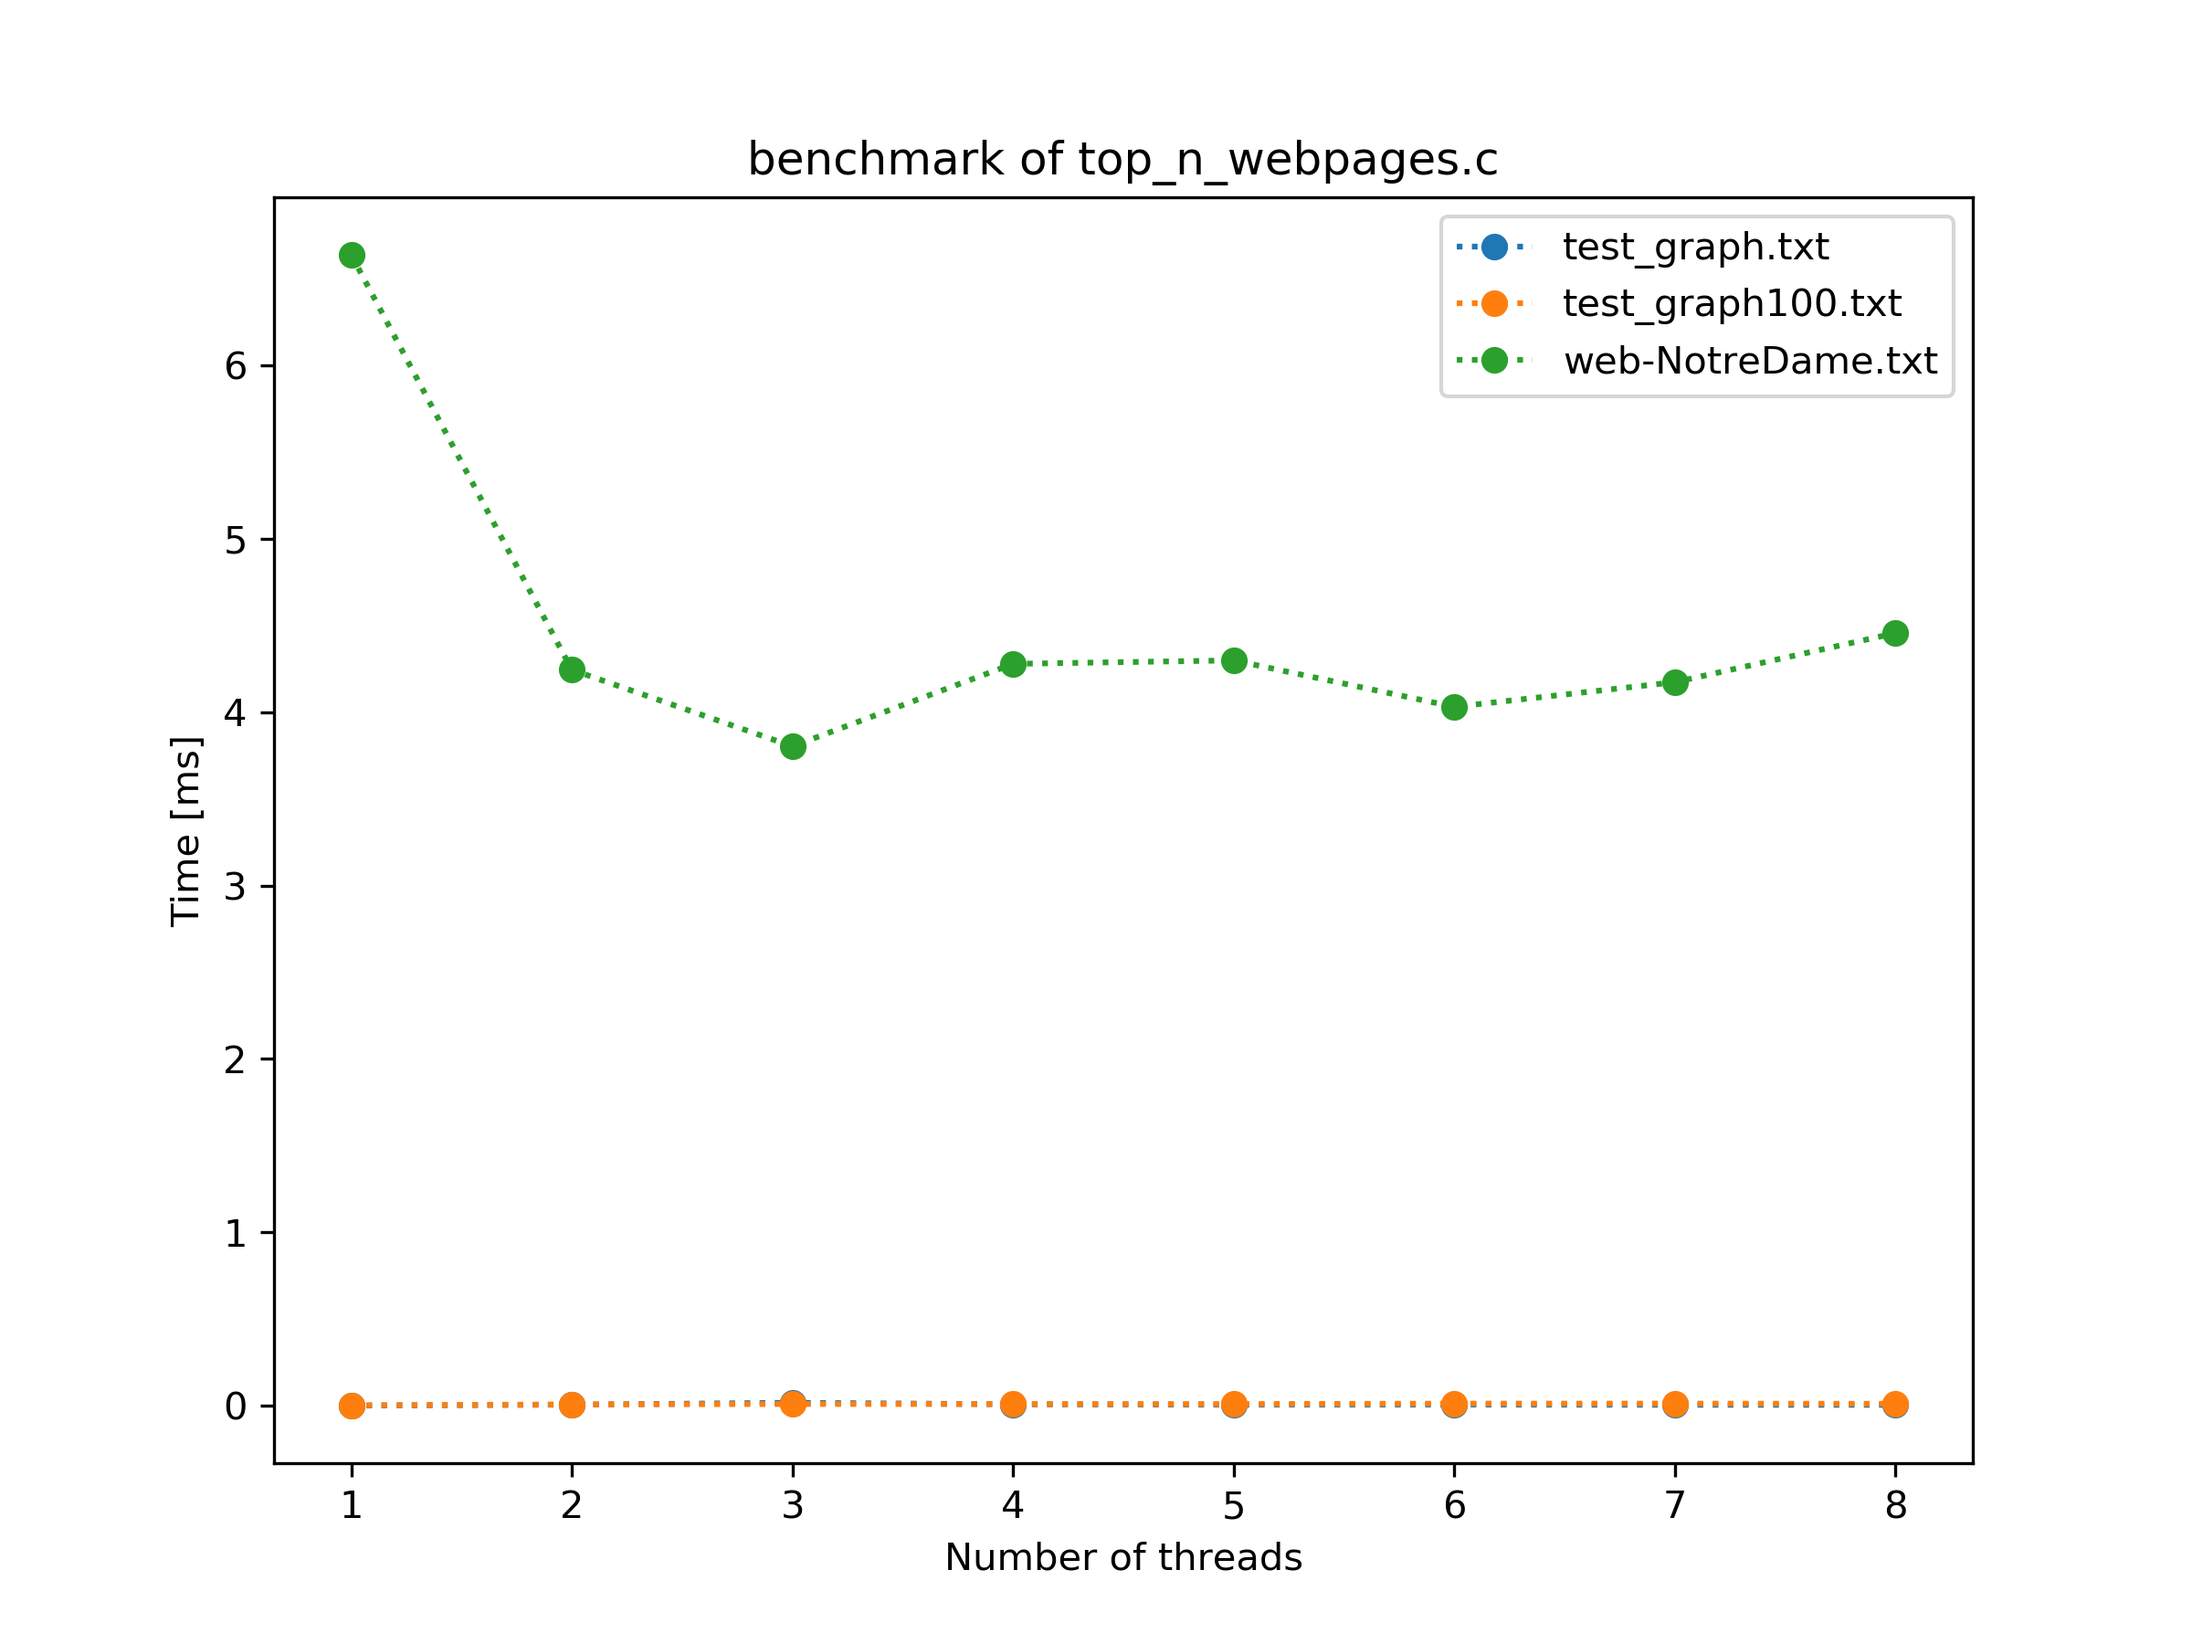
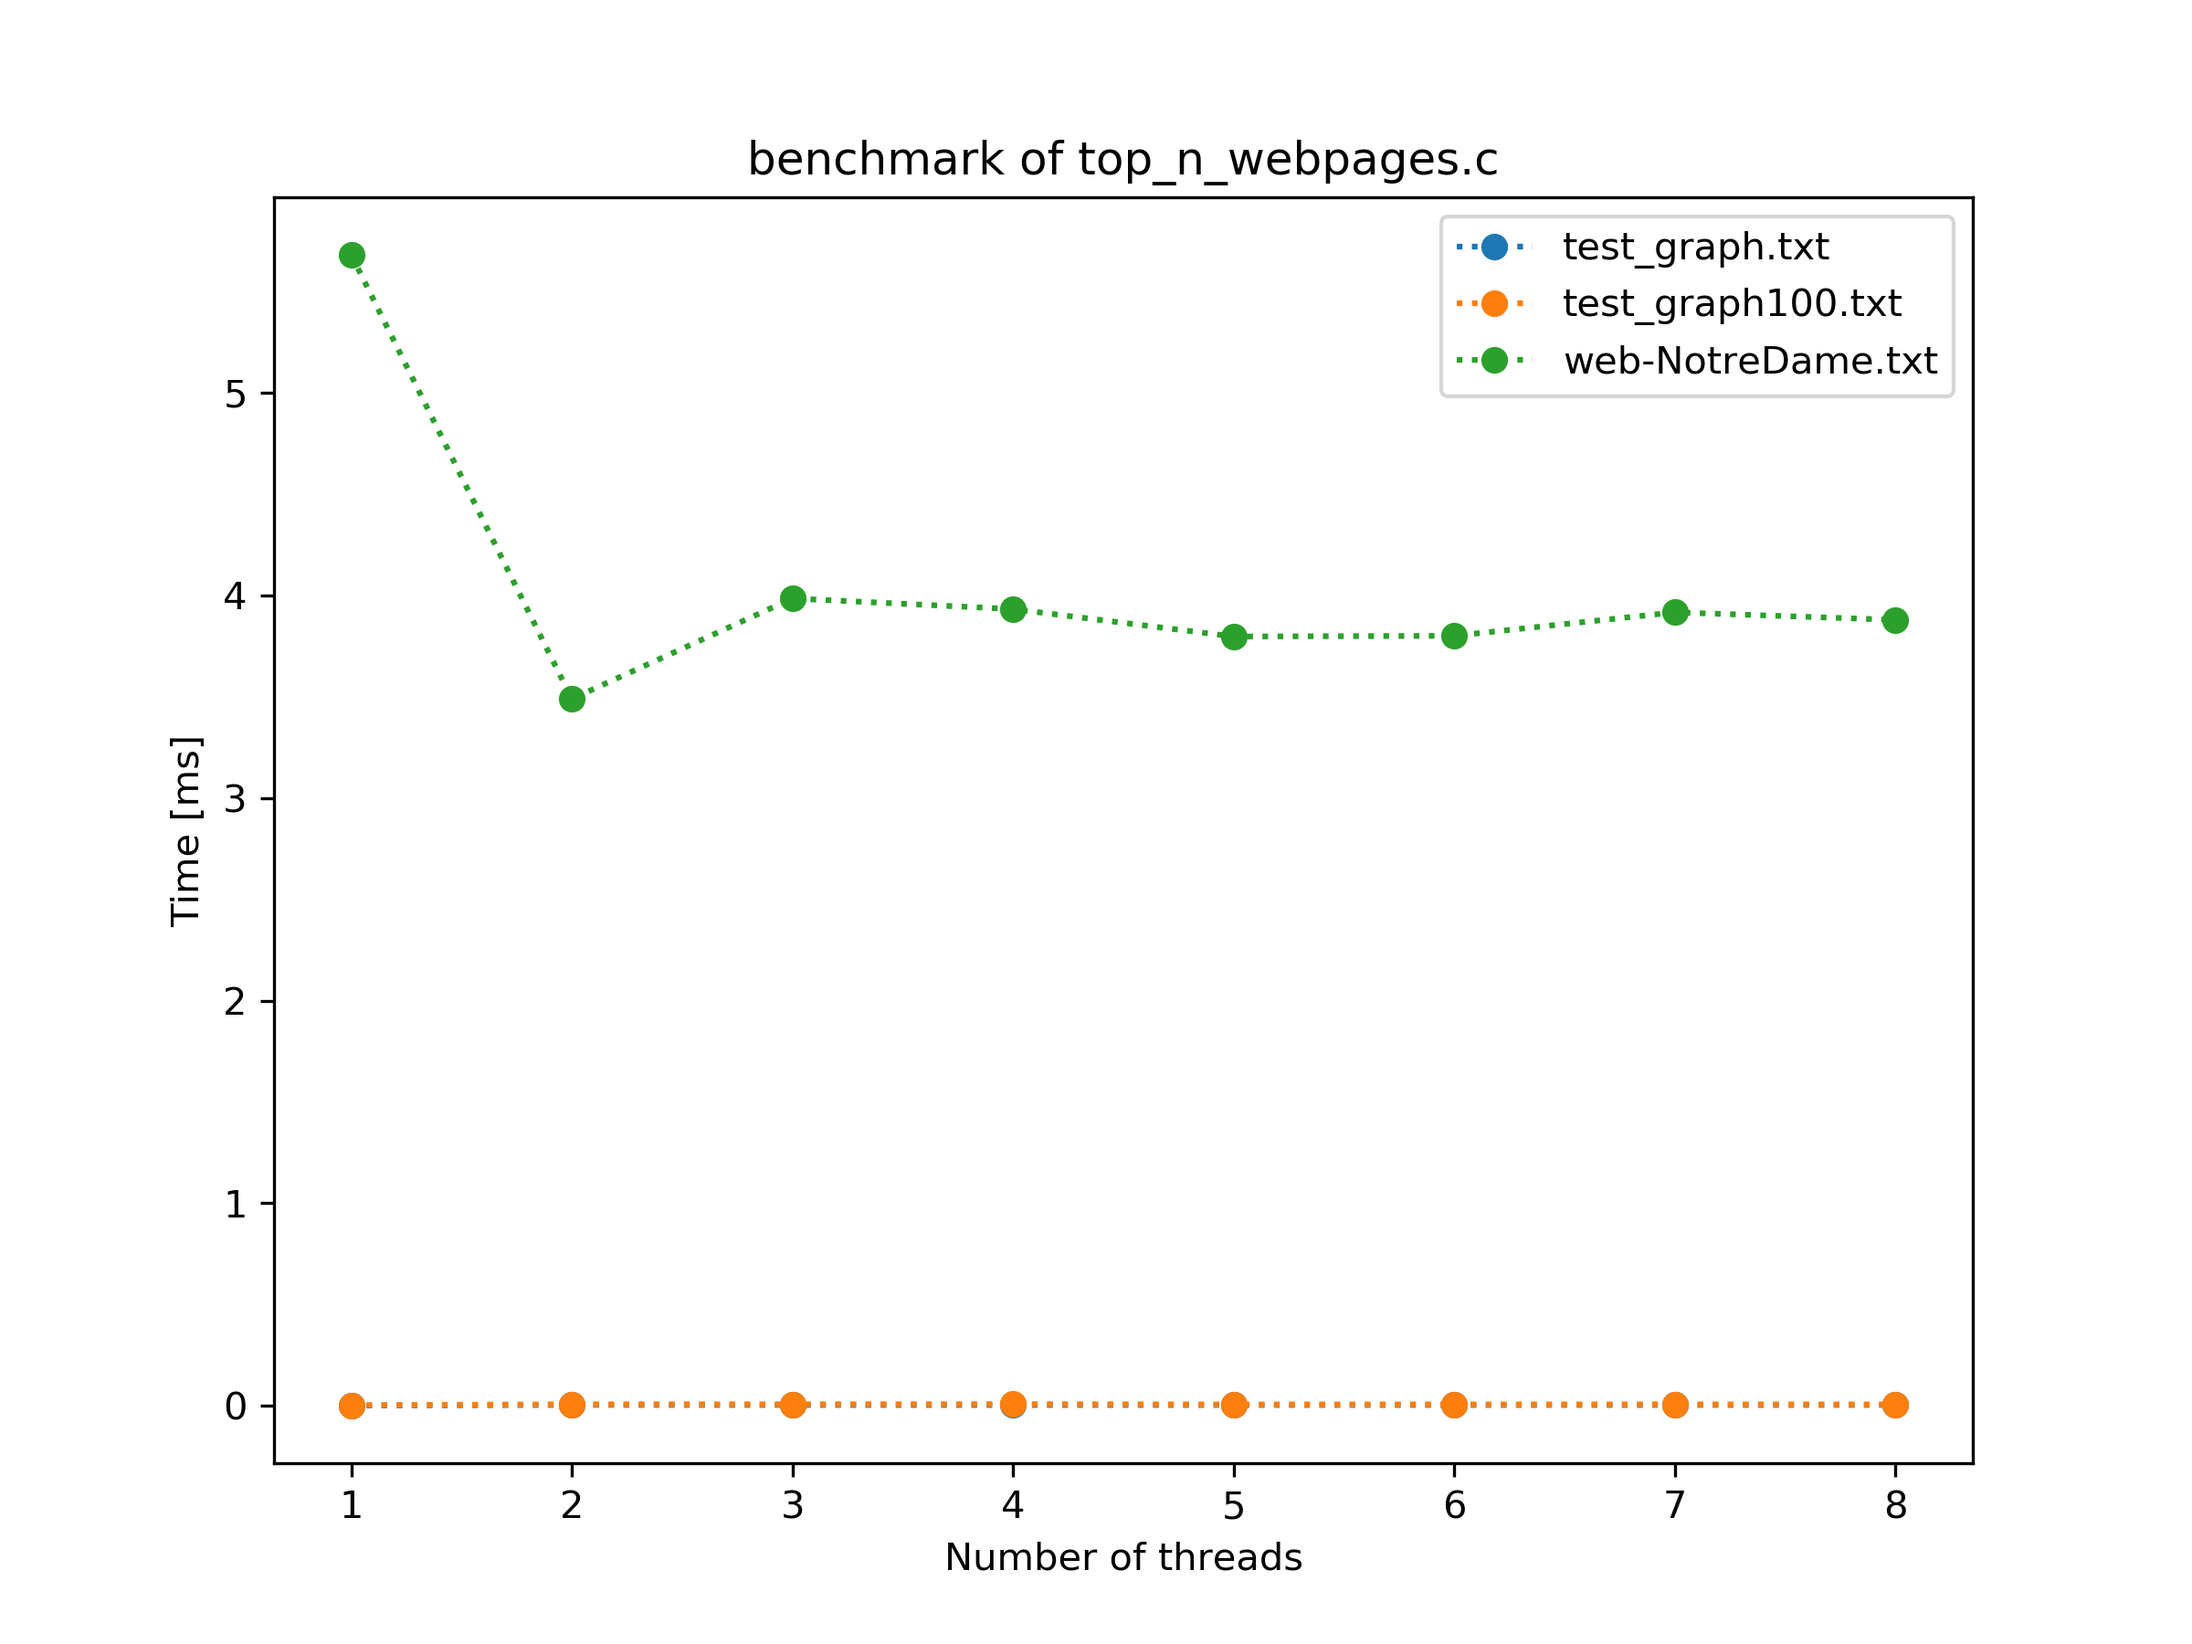
final changes

diff --git a/IN4200_HE1_15224/src/read_graph_from_file2.c b/IN4200_HE1_15224/src/read_graph_from_file2.c
@@ -43,25 +43,29 @@ void read_graph_from_file2 (char *filename, int *N, int *N_links, int **row_ptr,
   fscanf(infile, "%*s %*s %d %*s %d \n", &*N, &*N_links); //getting the values of N and N_links
   fscanf(infile, "%*[^\n]\n"); //SKIP: line 4
 
-  *col_idx = (int *)calloc((*N_links),sizeof(col_idx));           //allocate col_idx
   *row_ptr = (int *)calloc((*N+1),sizeof(row_ptr));               //allocate row_ptr
   int *ToNodeId = (int *)calloc((*N_links),sizeof(ToNodeId));     //allocate column of ToNodeId
   int *FromNodeId = (int *)calloc((*N_links),sizeof(FromNodeId)); //allocate column of FromNodeId
 
+  int N_links_n = 0;
   for(size_t k = 0; k < *N_links; k++){
     fscanf(infile, "%d %d", &j, &i);  //getting the indices i and j from column is filename
-    (*row_ptr)[i+1]++;                //adding up "spaces" between rows (counting number of same indices)
-    ToNodeId[k] = i;                  //storing the values in the second column in filename
-    FromNodeId[k] = j;                //storing the values in the first column in filename
+    if (i!=j && (i < (*N)) && (j < (*N))){
+      (*row_ptr)[i+1]++;                //adding up "spaces" between rows (counting number of same indices)
+      ToNodeId[N_links_n] = i;                  //storing the values in the second column in filename
+      FromNodeId[N_links_n] = j;                //storing the values in the first column in filename
+      N_links_n ++;
+    }
   }
 
-  for (int i = 1; i < (*N)+1; i++){
+  for (int i = 2; i < (*N)+1; i++){
     (*row_ptr)[i] += (*row_ptr)[i-1]; //cumulative summation of number of links per row
   }                                   //this will give us integer values from 0 to N_links
                                       //(indices at which new rows start in col_idx)
 
+  *col_idx = (int *)calloc((N_links_n),sizeof(col_idx));           //allocate col_idx
   int *counter = calloc((*N), sizeof(*counter)); //1. this counter is there to make sure no vals in col_idx are overwritten
-  for(size_t i = 0; i < *N_links; i++){          //2. + good ordering of vals in col_idx
+  for(size_t i = 0; i < N_links_n; i++){          //2. + good ordering of vals in col_idx
     (*col_idx)[(*row_ptr)[ToNodeId[i]] + counter[ToNodeId[i]]] = FromNodeId[i]; //3. all vals are found in FromNodeId
     counter[ToNodeId[i]]++;                      //4. Indices are found in ToNodeId, counter offset idices ref(1)
   }

diff --git a/IN4200_HE1_15224/src/top_n_webpages.c b/IN4200_HE1_15224/src/top_n_webpages.c
@@ -58,19 +58,17 @@ void calc_top_n_webpages(int num_webpages, int *num_involvements, int *top_resul
     #pragma omp parallel
     {
       int thread_id = omp_get_thread_num();
-      int rest = num_webpages%n_thread;
-
       for (int i = 0; i < n; i++){
-        if(thread_id<n_thread){
+        if(thread_id<n_thread-1){
           for (int j = thread_id*num_webpages/n_thread; j < (thread_id+1)*num_webpages/n_thread; j++){ //allocates a part of list to each thread
-            if (dummy_array[top_webpage]<=dummy_array[j]){  //Finds maximum value of copy
+            if (dummy_array[top_webpage]<dummy_array[j]){  //Finds maximum value of copy
               top_webpage = j;                              //sets top_webpage as index of maximum value
             }
           }
         }
         else{
           for (int j = thread_id*num_webpages/n_thread; j < num_webpages; j++){ //same as above for remaining part of list
-            if (dummy_array[top_webpage]<=dummy_array[j]){
+            if (dummy_array[top_webpage]<dummy_array[j]){
               top_webpage = j;
             }
           }
@@ -84,7 +82,7 @@ void calc_top_n_webpages(int num_webpages, int *num_involvements, int *top_resul
         memcpy(dummy_array, num_involvements, num_webpages*sizeof(num_involvements)); //remake copy
         for (int i = 0; i < n; i++){  //iterates n times over nxn_thread long array of indices
           for (int j = 0; j < n*n_thread; j++){
-            if (dummy_array[top_webpage] <= dummy_array[temp_top_results[j]]){ //finds which of the nxnthread indices contains max value
+            if (dummy_array[top_webpage] < dummy_array[temp_top_results[j]]){ //finds which of the nxnthread indices contains max value
               top_webpage = temp_top_results[j];  //top webage is set
             }
           }

diff --git a/IN4200_HE1_15224/main.c b/IN4200_HE1_15224/main.c
@@ -34,7 +34,6 @@ int main(){
   printf("\nTotal number of mutual links: %d\n",total_mutual_links);
 
   top_n_webpages(N, num_involvements, 10);
-
   //free all relevant arrays from testing part 1
   free2dtable(table2D);
   free(num_involvements);
@@ -52,6 +51,9 @@ int main(){
   total_mutual_links = count_mutual_links2(N, N_links, row_ptr, col_idx, num_involvements);
   printf("\nTotal number of mutual links: %d\n",total_mutual_links);
 
+  int *top_results = (int *)malloc(10*sizeof(top_results)); //allocates an n long array to store the top n elements
+  int counter = 0;
+  
   top_n_webpages(N, num_involvements, 10);
 
   //free arrays from part 2

diff --git a/IN4200_HE1_15224/src/read_graph_from_file1.c b/IN4200_HE1_15224/src/read_graph_from_file1.c
@@ -38,7 +38,9 @@ void read_graph_from_file1 (char *filename, int *N, char ***table2D){
 
   for(size_t k = 0; k < nedges; k++){
     fscanf(infile, "%d %d", &j, &i);  //finding the indices of the outbound and inbound links
-    (*table2D)[i][j] = 1;             //these indices insure a transposed version of the table
+    if(i != j){
+      (*table2D)[i][j] = 1;             //these indices insure a transposed version of the table
+    }
   }                                   //these indices are assinged the value 1 in the table
 
   fclose(infile);

diff --git a/IN4200_HE1_15224/readme.md b/IN4200_HE1_15224/readme.md
@@ -70,7 +70,7 @@ both presentation and content.
     - the header file for [read_graph_from_file2.c]
 
   - [top_n_webpages.c]
-    - file containing a function for finding the top n webpages based on number of involvements found by either [count_mutual_links1.c] or [count_mutual_links2.c]
+    - file containing different functions for finding the top n webpages based on number of involvements found by either [count_mutual_links1.c] or [count_mutual_links2.c]
 
   - [top_n_webpages.h]
     - the header file for [top_n_webpages.c]
@@ -95,6 +95,12 @@ both presentation and content.
 
 - [benchmark.c]
   - when in IN4200_HE1_15224 type into terminal: "make benchmark.x" "./benchmark.x filename graph_file N_bench" or "make benchmarkOMP.x" "./benchmarkOMP filename graph_file N_bench" to run parallel code, where filename is the name of the function you want to benchmark e.g. "count_mutual_links1.c", graph_file is the filename of the web graph on which you want to benchmark, and N_bench is the number of repetitions run during benchmarking
+
+- [src/count_mutual_links1.c]
+  - the pragmas in this function may not run properly at UiO servers. I have added pragmas that can run at UiO in the comments above the current pragmas.
+
+- [src/count_mutual_links2.c]
+  - the pragmas in this function may not run properly at UiO servers. I have added pragmas that can run at UiO in the comments above the current pragmas.
 
 
 - [hpc_analytics.py]
